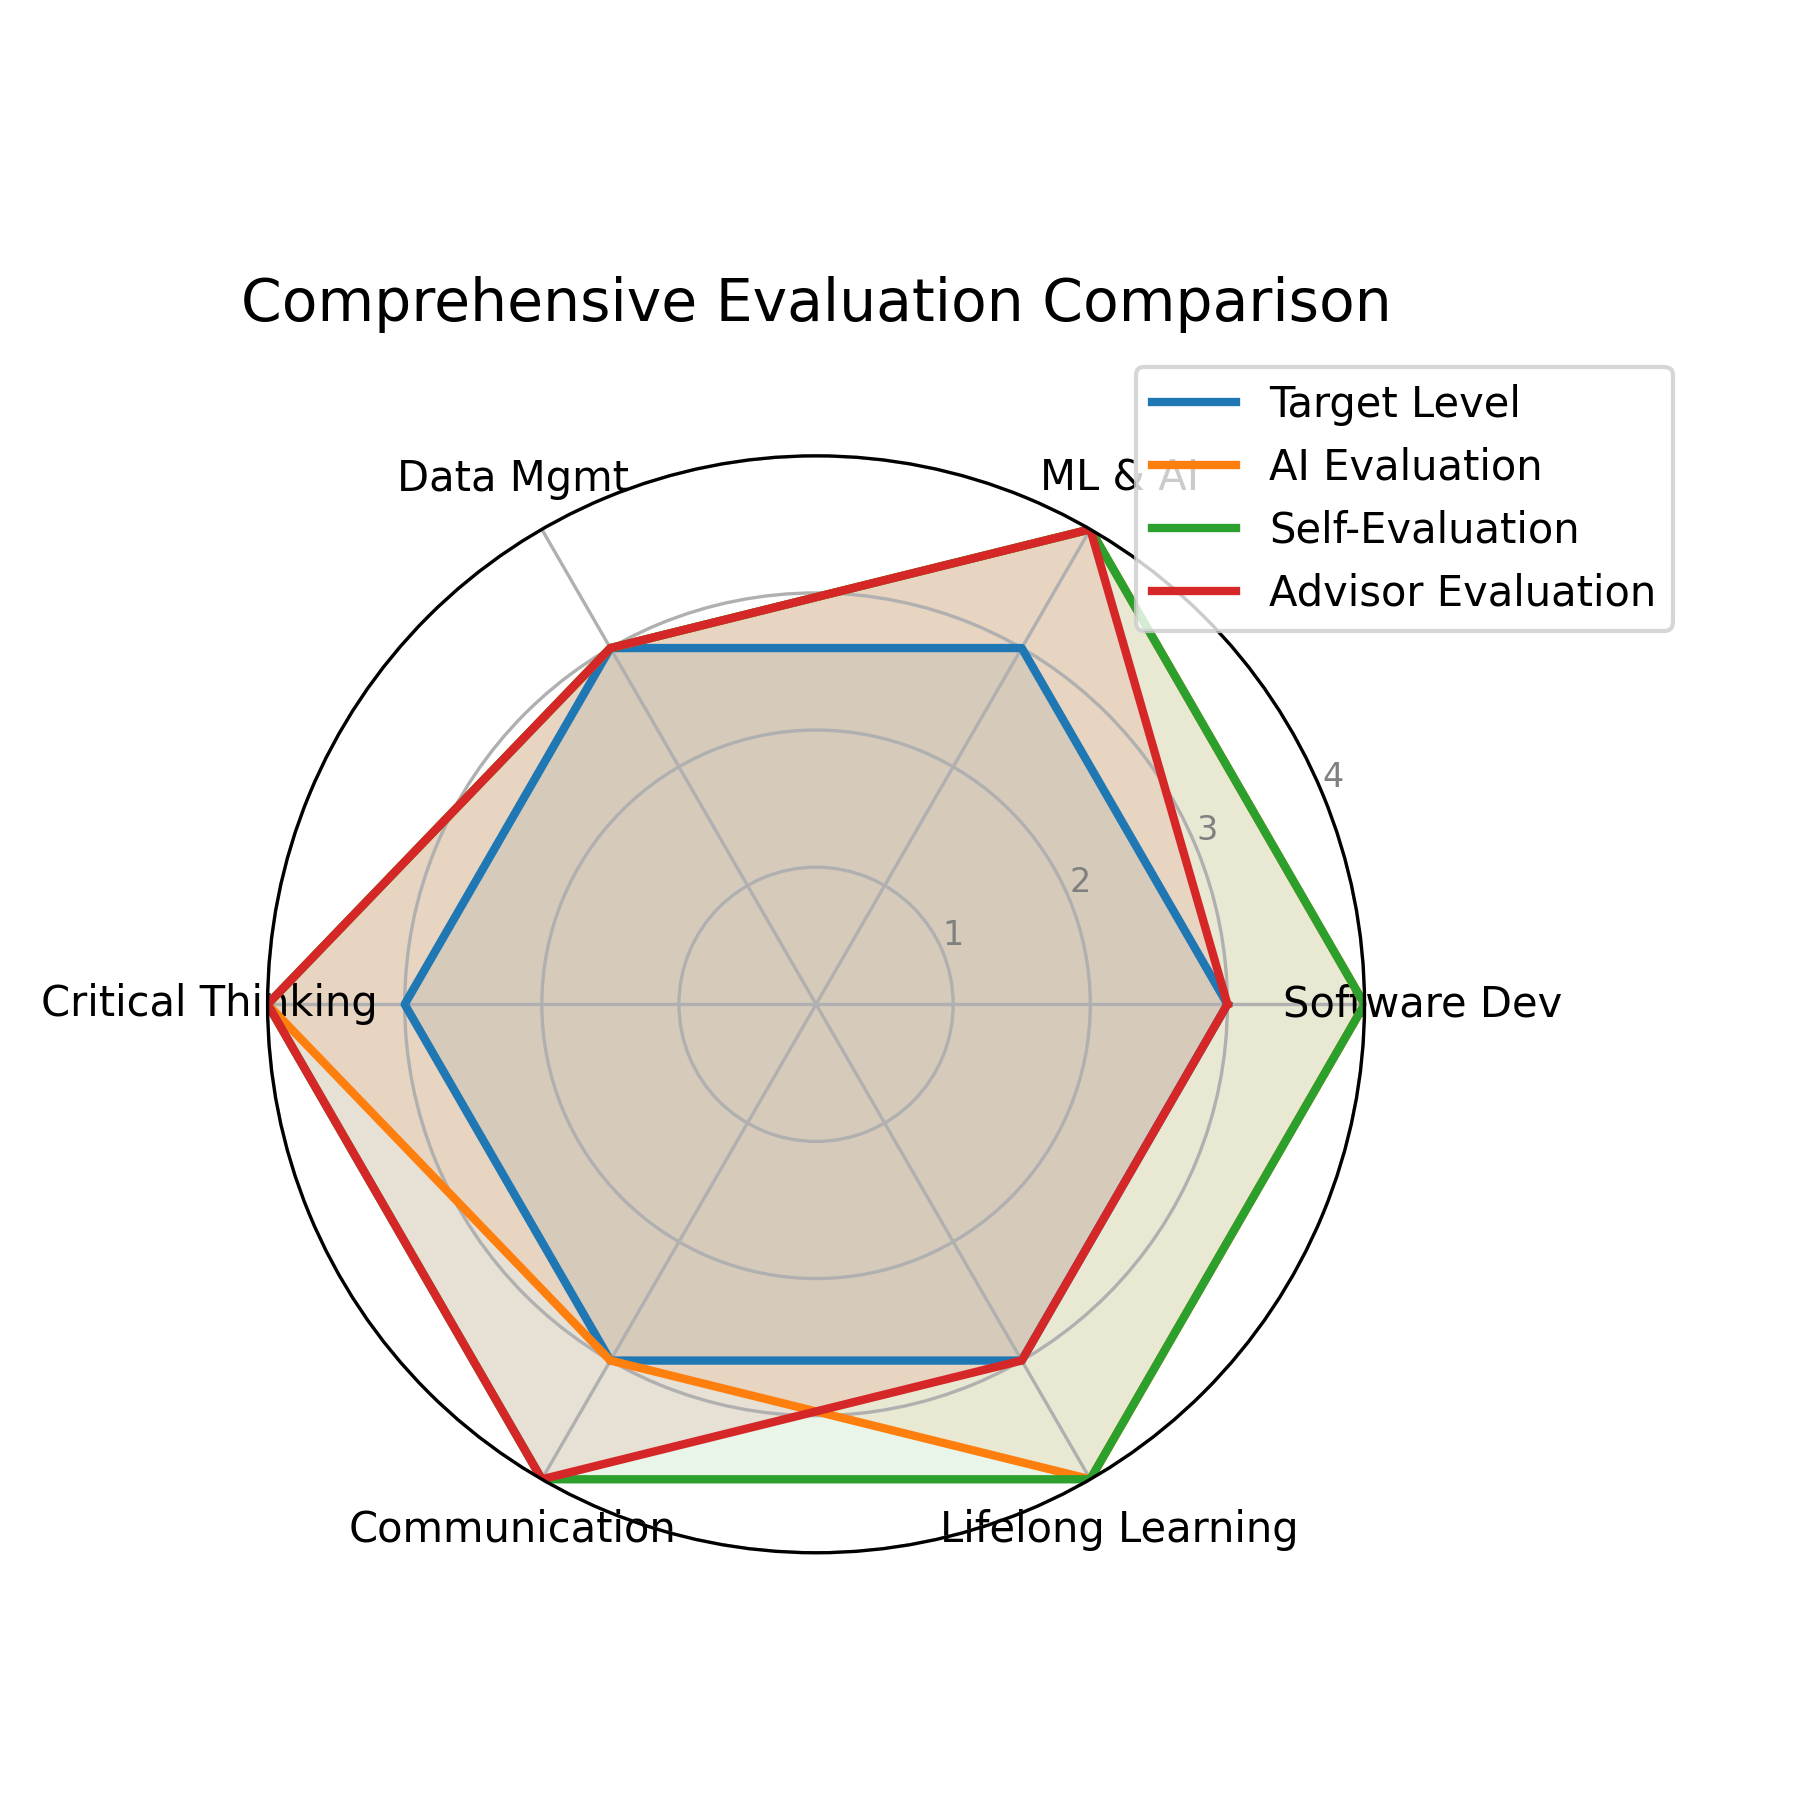
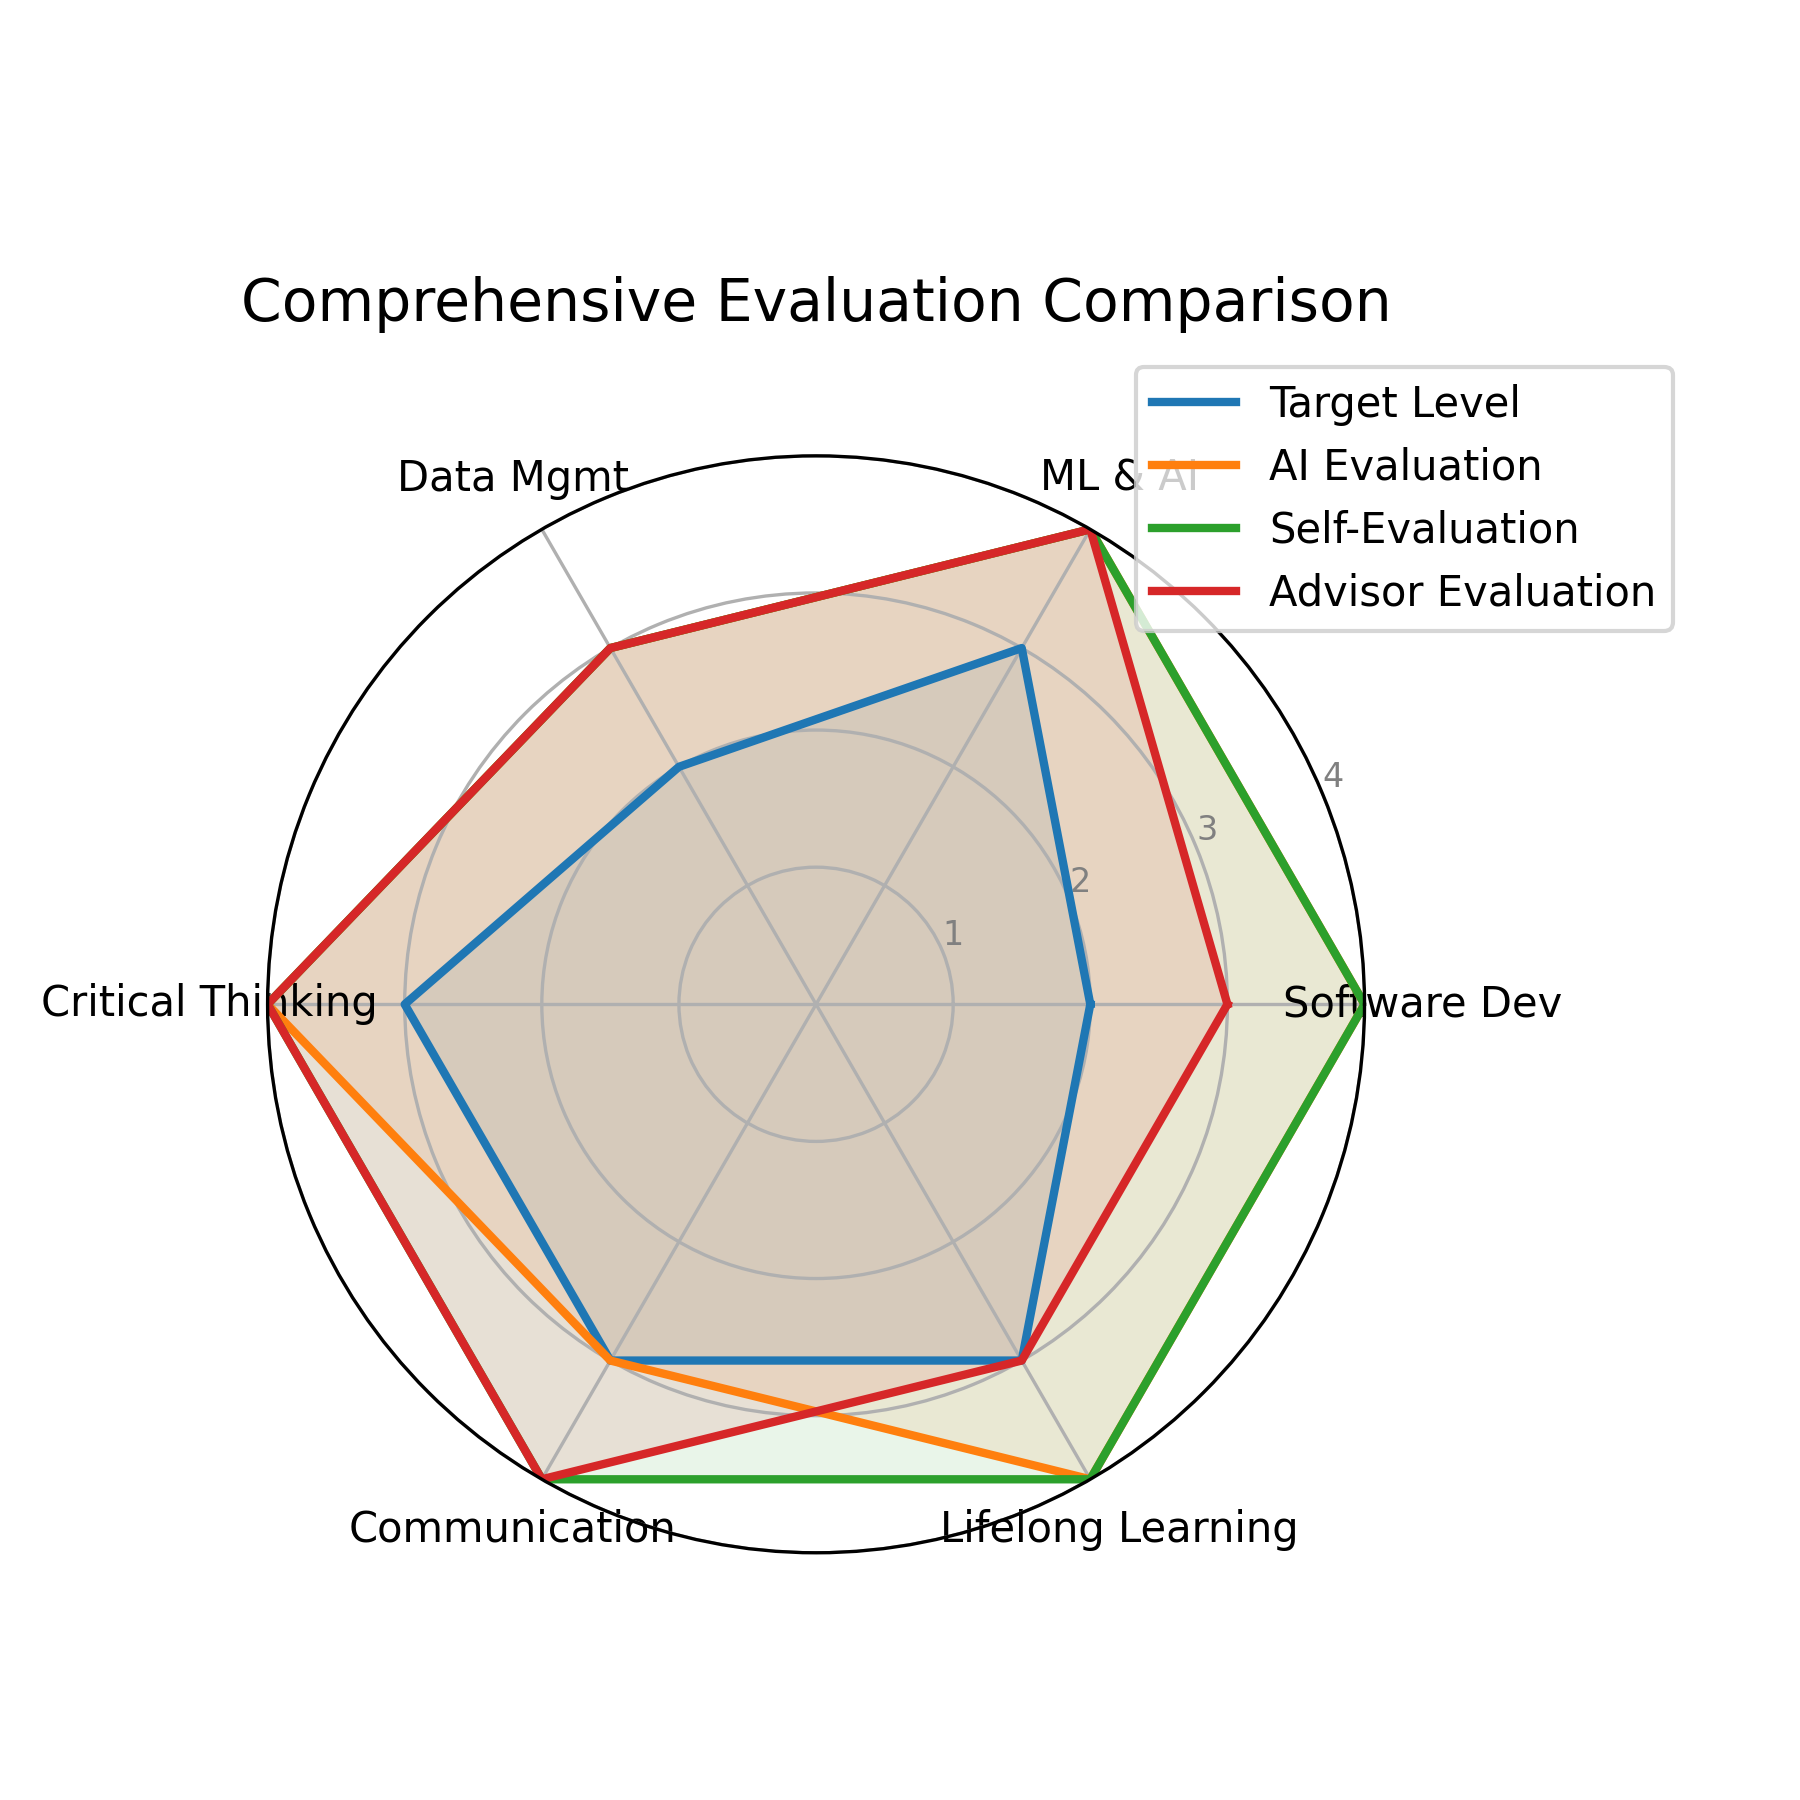
232333

diff --git a/generate_radar.py b/generate_radar.py
@@ -1,0 +1,72 @@
+import numpy as np
+import matplotlib.pyplot as plt
+import os
+
+# Categories
+labels = ['Software Dev', 'ML & AI', 'Data Mgmt', 'Critical Thinking', 'Communication', 'Lifelong Learning']
+num_vars = len(labels)
+
+# Data
+target = [2, 3, 2, 3, 3, 3]
+ai = [4, 4, 3, 4, 3, 4]
+self_eval = [4, 4, 3, 4, 4, 4]
+advisor = [3, 4, 3, 4, 4, 3]
+
+# Compute angle for each axis
+angles = np.linspace(0, 2 * np.pi, num_vars, endpoint=False).tolist()
+angles += angles[:1]  # Complete the loop
+
+def make_radar_chart(title, datasets, filename):
+    fig, ax = plt.subplots(figsize=(6, 6), subplot_kw=dict(polar=True))
+    
+    # Draw one axe per variable and add labels
+    ax.set_xticks(angles[:-1])
+    ax.set_xticklabels(labels, fontsize=10)
+    
+    # Set y-axis limits (0 to 4 since levels are 1 to 4)
+    ax.set_ylim(0, 4)
+    ax.set_yticks([1, 2, 3, 4])
+    ax.set_yticklabels(['1', '2', '3', '4'], color="grey", size=8)
+    
+    colors = ['#1f77b4', '#ff7f0e', '#2ca02c', '#d62728']
+    
+    for i, (name, data) in enumerate(datasets.items()):
+        data = data + data[:1]  # Complete the loop
+        ax.plot(angles, data, color=colors[i], linewidth=2, linestyle='solid', label=name)
+        ax.fill(angles, data, color=colors[i], alpha=0.1)
+        
+        # Ensure 'assets/eval' dir exists
+    if not os.path.exists('assets/eval'):
+        os.makedirs('assets/eval')
+        
+    ax.legend(loc='upper right', bbox_to_anchor=(1.3, 1.1))
+    plt.title(title, size=14, y=1.1)
+    plt.tight_layout()
+    plt.savefig(filename, dpi=300)
+    plt.close()
+
+# 1. Target vs AI
+datasets1 = {
+    'Target Level': target,
+    'AI Evaluation': ai
+}
+make_radar_chart('Program Targets vs AI Evaluation', datasets1, 'assets/eval/radar_ai_target.png')
+
+# 2. Target vs AI vs Self
+datasets2 = {
+    'Target Level': target,
+    'AI Evaluation': ai,
+    'Self-Evaluation': self_eval
+}
+make_radar_chart('Targets vs AI vs Self', datasets2, 'assets/eval/radar_ai_target_self.png')
+
+# 3. Target vs AI vs Self vs Advisor
+datasets3 = {
+    'Target Level': target,
+    'AI Evaluation': ai,
+    'Self-Evaluation': self_eval,
+    'Advisor Evaluation': advisor
+}
+make_radar_chart('Comprehensive Evaluation Comparison', datasets3, 'assets/eval/radar_comprehensive.png')
+
+print("Updated radar charts generated in assets/eval/ with Lifelong Learning")

diff --git a/body/knowledgeevaluation.tex b/body/knowledgeevaluation.tex
@@ -19,13 +19,13 @@ The chart visually demonstrates the alignment between the intended outcomes of t
     \small
     \begin{tabularx}{\textwidth}{|p{2.8cm}|X|X|c|c|c|}
         \hline
-        \textbf{Dimension} & \textbf{Expected Level (Advanced)} & \textbf{Observed Evidence} & \textbf{Target} & \textbf{AI} & \textbf{Final} \\
+        \textbf{Dimension} & \textbf{Expected Level} & \textbf{Observed Evidence} & \textbf{Target} & \textbf{AI} & \textbf{Final} \\
         \hline
-        Software Development \& Programming & Develops functional applications independently. Debugs and optimizes code. Designs scalable architectures. & Developed a complex, modular multi-camera tracking system. Real-time latency optimization ($<50$ ms). & 3 & 4 & 4 \\
+        Software Development \& Programming & Develops functional applications independently. Debugs and optimizes code. Designs scalable architectures. & Developed a complex, modular multi-camera tracking system. Real-time latency optimization ($<50$ ms). & 2 & 4 & 4 \\
         \hline
         Machine Learning \& AI & Fine-tunes models for specific tasks. Builds custom ML pipelines. & Successfully combined appearance-based Re-ID (YOLOv26m, OSNet) with geometric matching logic (homography). & 3 & 4 & 4 \\
         \hline
-        Data Management \& Analytics & Implements real-time analytics and dynamic data structures. & Efficient trajectory association and tracking state management across overlapping grids. & 3 & 3 & 3 \\
+        Data Management \& Analytics & Implements real-time analytics and dynamic data structures. & Efficient trajectory association and tracking state management across overlapping grids. & 2 & 3 & 3 \\
         \hline
         Critical \& Creative Thinking & Designs innovative systems and iterates based on feedback. & Addressed computational overhead intelligently by introducing an edge-zone trigger to strictly invoke Re-ID only when necessary. & 3 & 4 & 4 \\
         \hline